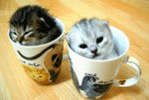
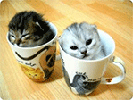
retina

diff --git a/template/www/app/app.scss b/template/www/app/app.scss
@@ -11,11 +11,30 @@ body {
 }
 .kitten1 {
 	background-image: url(../template/www/app/assets/img/kitten1.png);
+	background-size: 133px 100px;
 	height: 100px;
 	margin: 0 auto;
+	background-repeat: no-repeat;
 }
 .kitten2 {
 	background-image: url(../template/www/app/assets/img/kitten2.png);
+	background-size: 133px 100px;
 	height: 100px;
 	margin: 0 auto;
+	background-repeat: no-repeat;
 }
+
+//RETINA:
+@media
+only screen and (-webkit-min-device-pixel-ratio: 2),
+only screen and (   min--moz-device-pixel-ratio: 2),
+only screen and (     -o-min-device-pixel-ratio: 2/1),
+only screen and (        min-device-pixel-ratio: 2),
+only screen and (                min-resolution: 192dpi),
+only screen and (                min-resolution: 2dppx) {
+
+  .kitten1 {background-image: url(../template/www/app/assets/img/kitten1@2x.png);}
+  .kitten2 {background-image: url(../template/www/app/assets/img/kitten2@2x.png);}
+
+}
+
